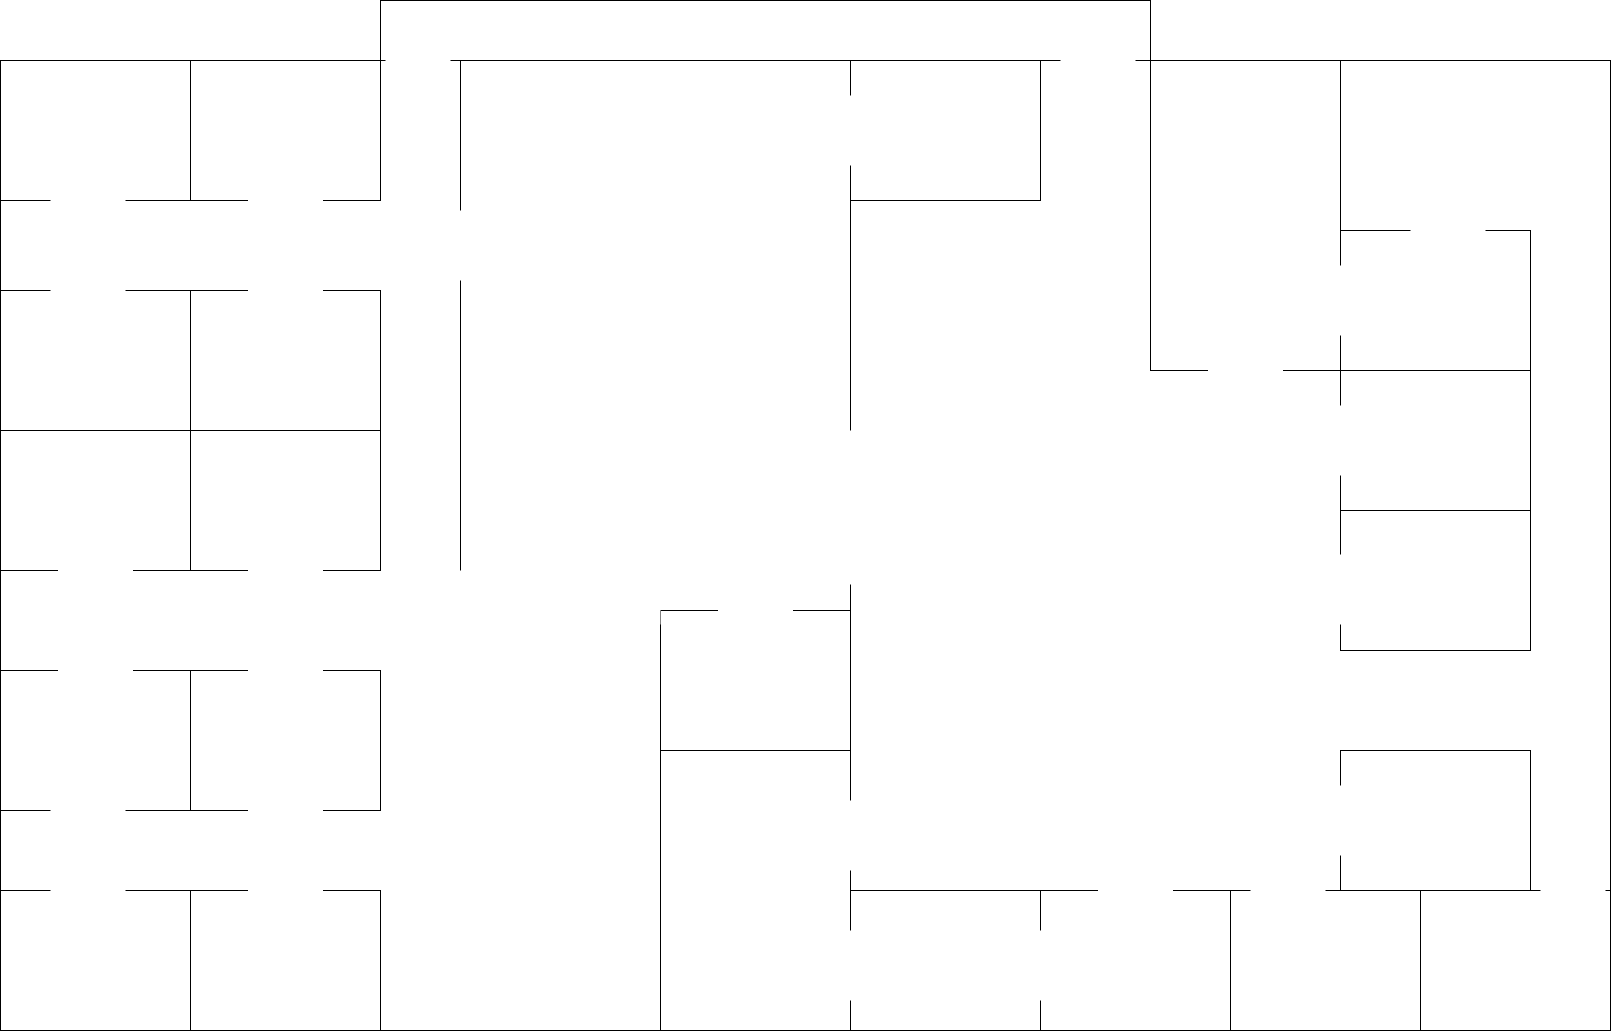
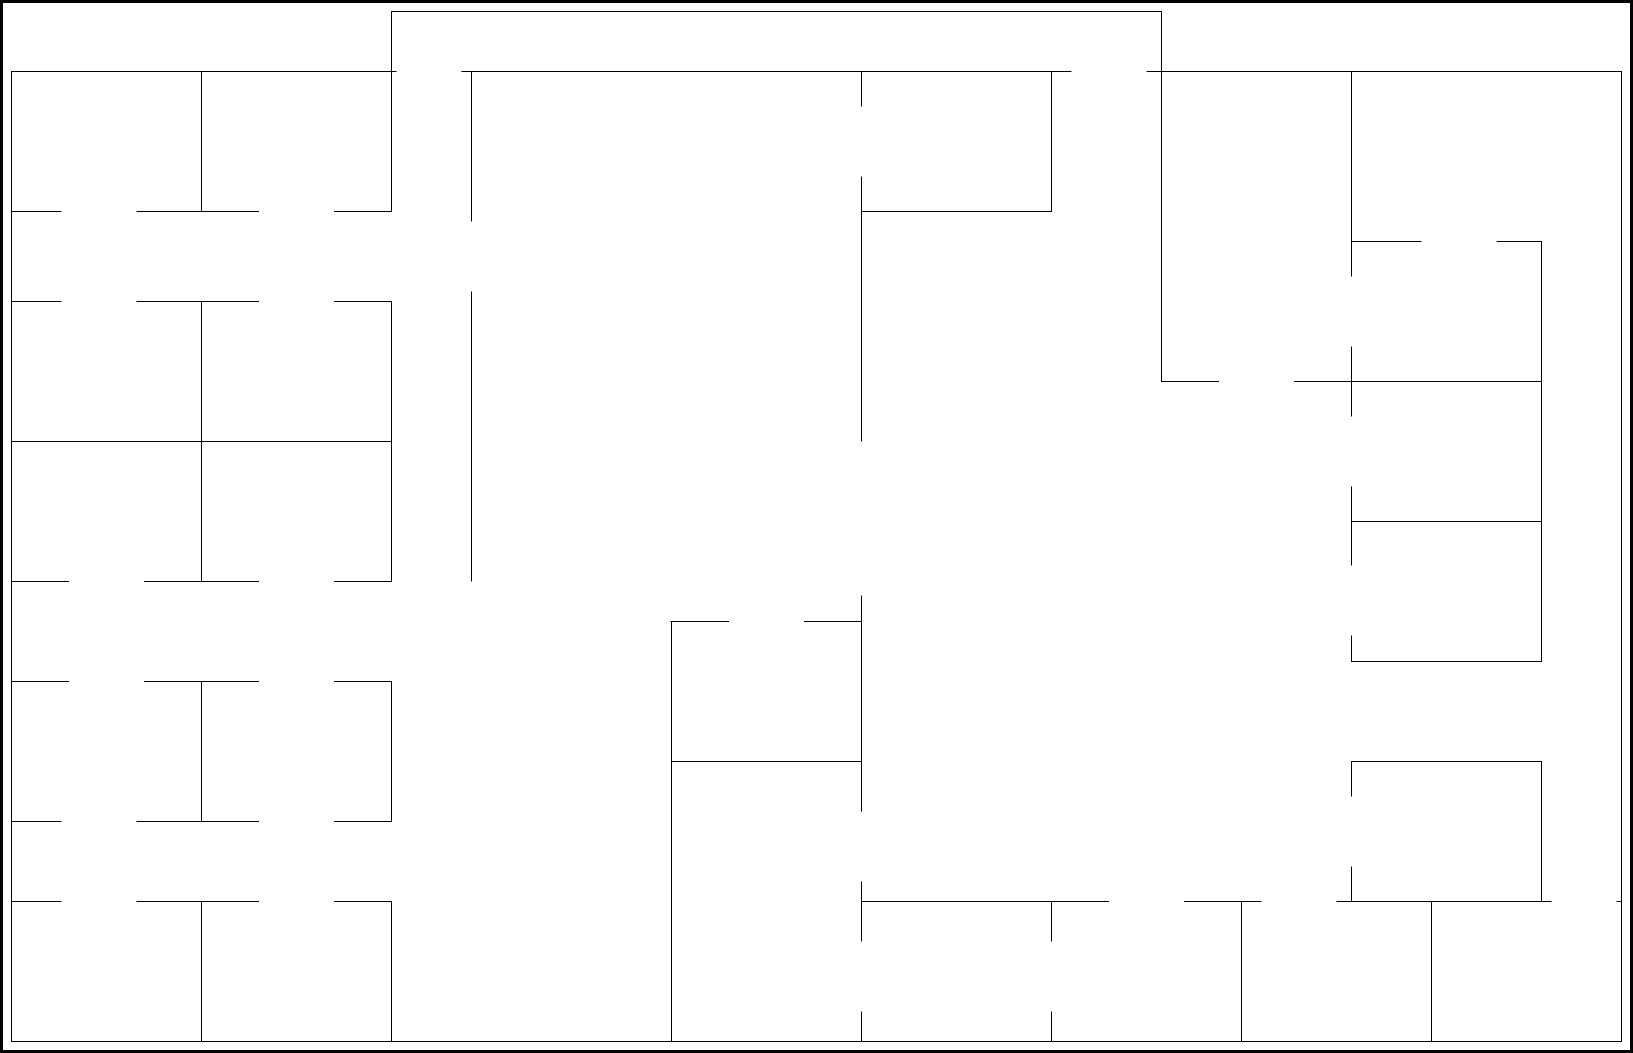
add big office and some changes

diff --git a/src/frontier_exploration/scripts/auction_robot_assigner.py b/src/frontier_exploration/scripts/auction_robot_assigner.py
@@ -7,6 +7,7 @@ import tf
 import time
 import numpy as np
 import rosservice
+from typing import Tuple
 from itertools import repeat
 from copy import copy
 from math import exp, hypot
@@ -92,7 +93,7 @@ class AuctionAssigner(object):
 		self.frontiers = data
 
 	def auction_results_callback(self, msg:AuctionInt):
-		#self.spare_goals.clear() #only acutal goals are in spare
+		self.spare_goals.clear() #only acutal goals are in spare
 		# add all Points where i won to the spare goal
 		self.log("received new Goals Results:" + str(msg.int_array))
 		for id, point in zip(msg.int_array.data,self.auction_points):
@@ -192,6 +193,8 @@ class AuctionAssigner(object):
 			for index,point in enumerate(self.auction_points):
 				for i in range(self.n_robots):
 					# Frontier occupancy function
+					if i == self.robot_number:	#is the point close to my goal, ignore the malus
+						pass
 					list_of_frontier_occ[index] += (self.calculate_frontier_occupancy(point, response[i].response.current_goal))
 		
 			t_diff = (rospy.Time.now()-t)
@@ -201,20 +204,32 @@ class AuctionAssigner(object):
 			# The weight = cost - utility + frontier_occ
 			cost = (list_of_costs-list_of_utilities)+list_of_frontier_occ
 
-			bid_value = 100
+			bid_value = 1000
 			self.log("Costtable:"+str(cost)+"\n\n"+str(list_of_costs)+"\n\n"+str(list_of_utilities)+"\n\n"+str(list_of_frontier_occ))
+			best_frontiers = []	#iindex, cost
+			sum_best_frontiers = 0.0
+
 			for i in range(number_bids):
 				min_index = np.argmin(cost)
 				self.log("found cheap goal index %d with total cost of %.02f (distance %.2f, util: %.2f, occupancy: %.2f"\
 					%(min_index, cost[min_index],\
 					list_of_costs[min_index], list_of_utilities[min_index], list_of_frontier_occ[min_index]))
-				cost[min_index] = 999999999999
-				bid_msg.bids_array.data[min_index] = int(bid_value/(i+1))
-				pass
+				best_frontiers.append((min_index,cost[min_index]))
+				sum_best_frontiers += 1/cost[min_index]
+				cost[min_index] = 999999999999	#"delete" high value --> not important anymore
+				#bid_msg.bids_array.data[min_index] = int(bid_value/(i+1))
+				
+			for index,cost in best_frontiers:
+				valuation = ((1/cost)/sum_best_frontiers)*bid_value
+				bid_msg.bids_array.data[index] = int(self.calculate_bid(valuation))
+
 		t = (rospy.Time.now()-start_time)
 		s = "%.d,%d"%(t.secs,t.nsecs)
 		self.log("needed %s sec to calculate the bids"%(s))
 		self.pub_bids.publish(bid_msg)
+
+	def calculate_bid(self, valuation:int)->float:
+		return ((self.n_robots-1)/self.n_robots)*valuation
 		
 
 
@@ -285,7 +300,7 @@ class AuctionAssigner(object):
 		
 	def calculate_cost(self, frontier_point, robot_position):
 		# Cost function for a single point = Euclidean distance
-		lambda_c = 2.5
+		lambda_c = 3.5
 		cost = lambda_c * self.Euclidean_distance(
 			frontier_point, robot_position)
 		return cost
@@ -300,7 +315,7 @@ class AuctionAssigner(object):
 	def calculate_frontier_occupancy(self, frontier_point, current_goal):
 		# Calculate frontier_occupancy_function for other mobile robots
 		# And only if the frontier point is in range radius_front_occ from current_goal
-		radius_front_occ = 8.0
+		radius_front_occ = 3.0
 		lambda_f = 20.0
 		# distance = distance from frontier_point to current_goal
 		distance = self.Euclidean_distance(frontier_point, current_goal)

diff --git a/src/tests/scripts/plot.py b/src/tests/scripts/plot.py
@@ -8,7 +8,7 @@ import numpy as np
 import pandas as pd
 df = pd.read_csv(os.path.join(os.path.expanduser('~'),'.ros/000_results.csv'), delimiter=" ")
 
-world = "office"
+world = "big_office"
 auction_2 = df.loc[(df['World']==world) & (df['Assigner']=='Auction') & (df['Number_Robots']==2)]
 auction_3 = df.loc[(df['World']==world) & (df['Assigner']=='Auction') & (df['Number_Robots']==3)]
 auction_4 = df.loc[(df['World']==world) & (df['Assigner']=='Auction') & (df['Number_Robots']==4)]
@@ -35,7 +35,7 @@ print("Hungarian Samples: 2:%d, 3:%d, 4:%d, 5:%d, 6:%d"\
        %(len(hungarian_2),len(hungarian_3),len(hungarian_4), len(hungarian_5), len(hungarian_6)))
 # plot
 D = ([auction_2['Time'].tolist(), auction_3['Time'].tolist(), auction_4['Time'].tolist(), auction_5['Time'].tolist(), auction_6['Time'].tolist()])
-E = ([auction_2['Time'].tolist(), random_2['Time'].tolist(), hungarian_2['Time'].tolist()])
+E = ([auction_3['Time'].tolist(), random_3['Time'].tolist(), hungarian_3['Time'].tolist()])
 
 
 fig, ax = plt.subplots()
@@ -58,6 +58,9 @@ VP = ax.boxplot(E, positions=[1,2,3], widths=0.5, patch_artist=True,
                 )
 
 ax.set(xlim=(0, 6), xticks=np.arange(0, 6),
-       ylim=(100, 300), yticks=np.arange(100, 300,25))
+       ylim=(50, 400), yticks=np.arange(50, 400,25))
+fig, ax = plt.subplots()
+VP = ax.plot(auction_3['Time'].tolist())
+
 
 plt.show()

diff --git a/src/tests/nodes/exploration_tracker.py b/src/tests/nodes/exploration_tracker.py
@@ -38,8 +38,9 @@ class Exploration_Tracker():
         self.exploration_pub = rospy.Publisher('exploration_percentage', Float32, queue_size = 10)
         self.distance_pub = rospy.Publisher('traveled_distance', Float32MultiArray, queue_size=10)
         self.percentage = 0.0
-        self.start_time = rospy.Time.now().to_sec()
+        self.start_time = 0.0
         self.run_finished = False
+        self.start_time_initialized = False
         self.row = []
 
 
@@ -58,6 +59,9 @@ class Exploration_Tracker():
         distance_y = new_y-old_y
         self.traveled_distance.data[number] += math.sqrt(distance_x**2+distance_y**2)
         self.old_points[number] = (new_x, new_y)
+        if (distance_x+distance_y) > 0.1 and not self.start_time_initialized:   #Robot moved more than 0.1 meter
+            self.start_time_initialized = True
+            self.start_time = rospy.Time.now().to_sec()
     def publish_distance(self):
         self.distance_pub.publish(self.traveled_distance)
         print(self.traveled_distance)
